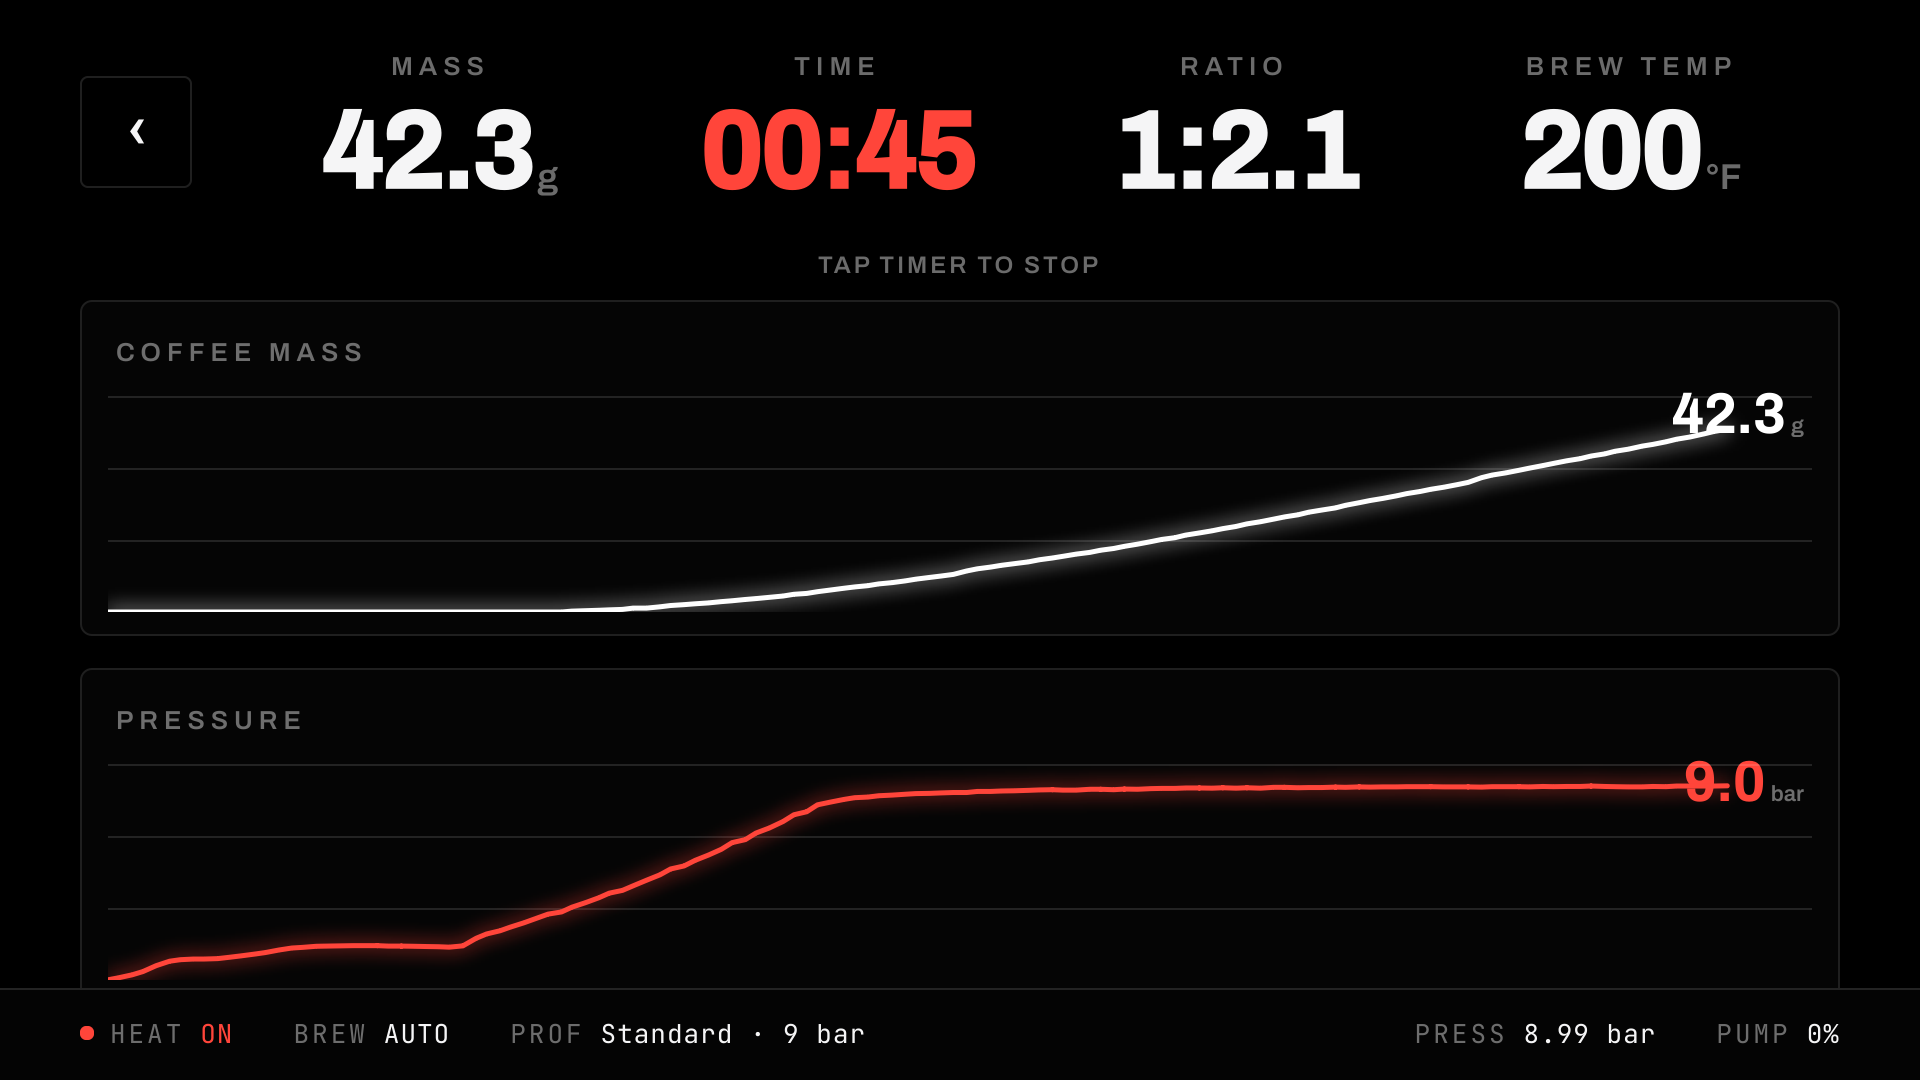
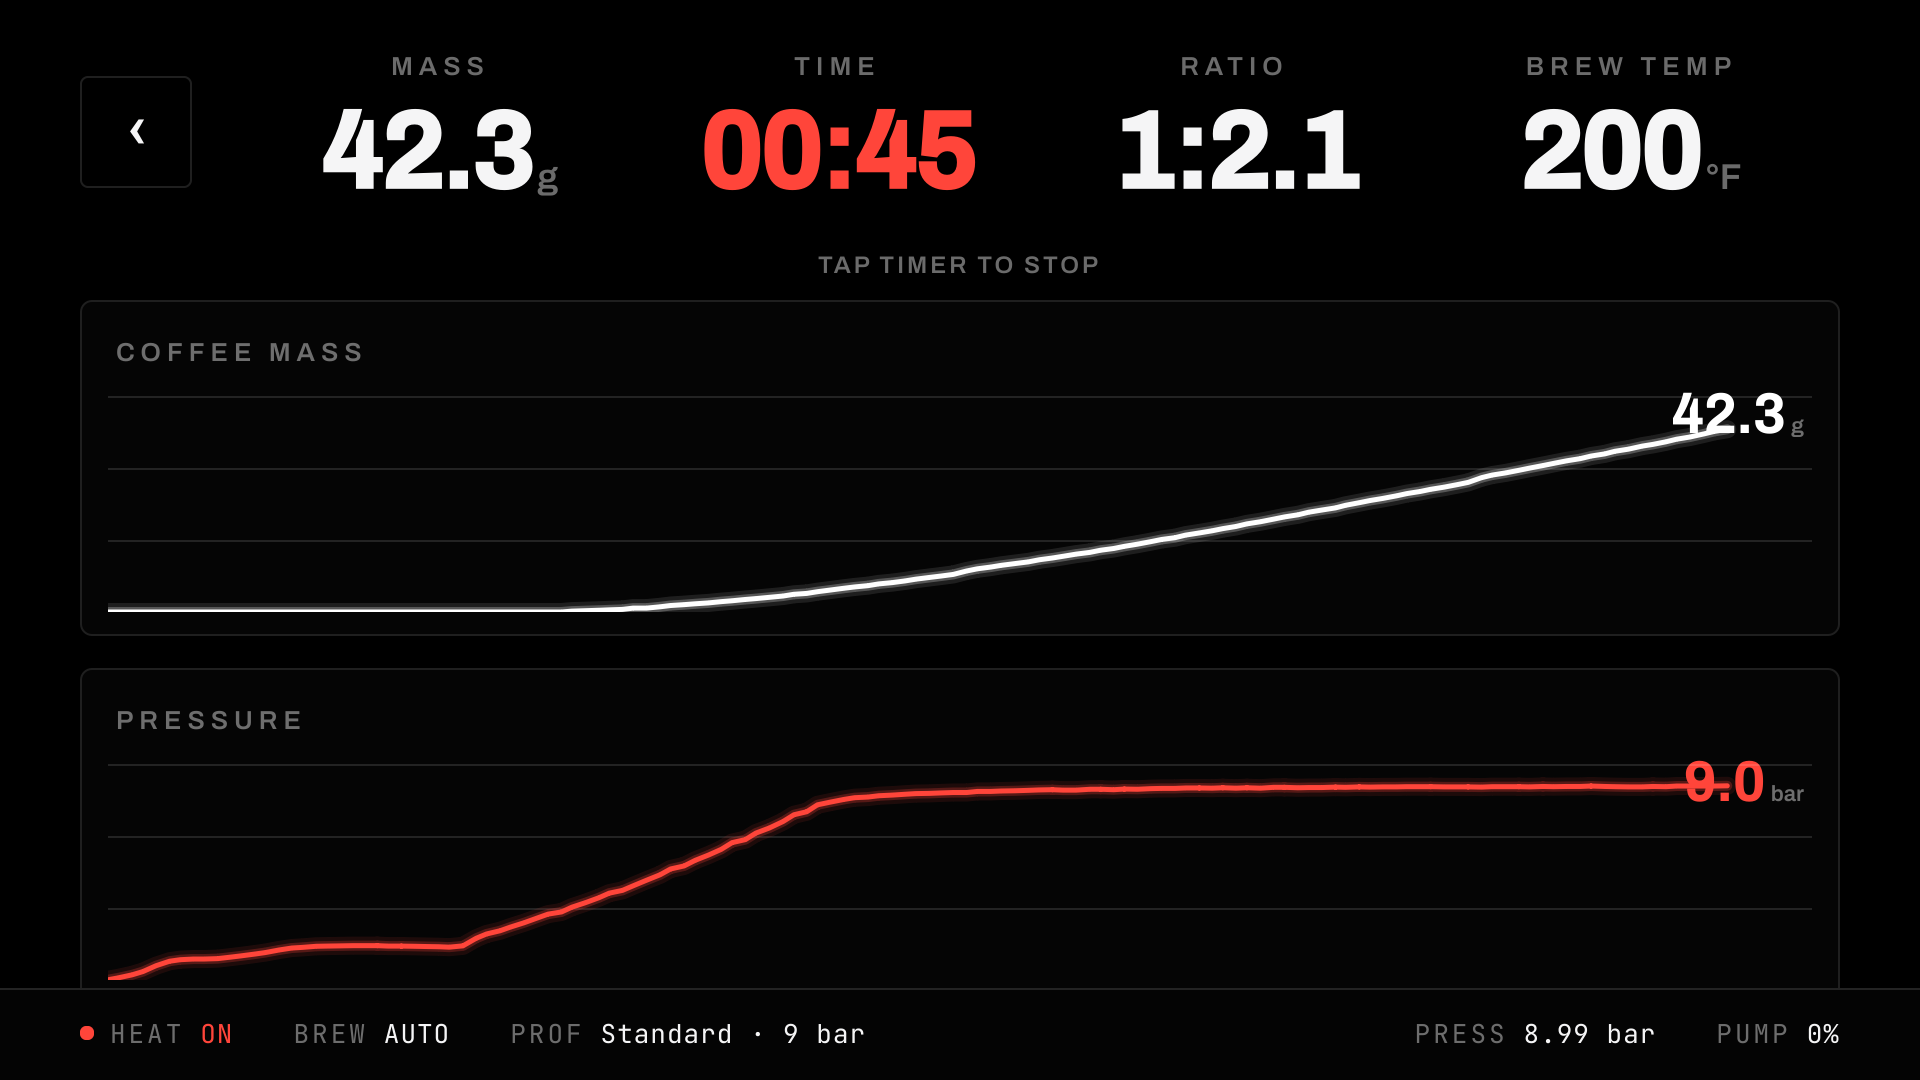
Fix brew-time UI jank: ChartCard glow via layered strokes, threaded raster
User pinned it: scale readout lag ONLY happened during a brew — which is
exactly when the live charts repaint. ctx.shadowBlur is a per-draw Gaussian
blur; 2 charts x growing polyline x 4 Hz was expensive enough on the Pi to
jank the GUI thread and coalesce the MASS numeral to ~1 Hz. Replaced with
3-pass layered strokes (visually equivalent bloom, render confirmed) and
renderStrategy: Canvas.Threaded so rasterization stays off the GUI thread.

Data chain separately verified good: press event tracked packet-by-packet
at 10 Hz in telemetry (77g -> 427g -> 74g over ~700 ms, fresh value each
100 ms packet).

Claude-Session: https://claude.ai/code/session_01WCiHknjkgDV1CNo2LPRxSg

diff --git a/ui/source/precision/ChartCard.qml b/ui/source/precision/ChartCard.qml
@@ -48,6 +48,23 @@ Rectangle {
         anchors.left: parent.left; anchors.right: parent.right; anchors.bottom: parent.bottom
         anchors.leftMargin: 14; anchors.rightMargin: 14; anchors.bottomMargin: 12
 
+        // Rasterize off the GUI thread so live-brew repaints can't jank the
+        // rest of the UI (the MASS numeral etc.).
+        renderStrategy: Canvas.Threaded
+
+        // Trace the polyline path once; stroked in multiple passes below.
+        function tracePath(ctx) {
+            var s = root.series
+            ctx.beginPath()
+            var started = false
+            for (var i = 0; i < s.length; i++) {
+                if (s[i].t > root.clipT) break
+                var x = (s[i].t / root.maxT) * width
+                var y = height - (s[i].v / root.maxV) * height
+                if (!started) { ctx.moveTo(x, y); started = true } else ctx.lineTo(x, y)
+            }
+        }
+
         onPaint: {
             var ctx = getContext("2d")
             ctx.reset()
@@ -63,23 +80,24 @@ Rectangle {
 
             var s = root.series
             if (!s || s.length < 2) return
-            ctx.save()
-            ctx.shadowColor = root.traceColor
-            ctx.shadowBlur = 8
-            ctx.strokeStyle = root.traceColor
-            ctx.lineWidth = 2.5
+
+            // Glow via layered strokes, NOT ctx.shadowBlur. shadowBlur is a
+            // per-draw Gaussian blur — on the Pi it cost enough per repaint
+            // (2 charts × growing polyline, every 250 ms during a brew) to
+            // jank the GUI thread and drag the live readouts to ~1 Hz.
+            // Three cheap passes read the same on the OLED.
             ctx.lineJoin = "round"
             ctx.lineCap = "round"
-            ctx.beginPath()
-            var started = false
-            for (var i = 0; i < s.length; i++) {
-                if (s[i].t > root.clipT) break
-                var x = (s[i].t / root.maxT) * width
-                var y = height - (s[i].v / root.maxV) * height
-                if (!started) { ctx.moveTo(x, y); started = true } else ctx.lineTo(x, y)
-            }
-            ctx.stroke()
-            ctx.restore()
+            var c = root.traceColor
+            ctx.strokeStyle = Qt.rgba(c.r, c.g, c.b, 0.10)
+            ctx.lineWidth = 9
+            tracePath(ctx); ctx.stroke()
+            ctx.strokeStyle = Qt.rgba(c.r, c.g, c.b, 0.25)
+            ctx.lineWidth = 5
+            tracePath(ctx); ctx.stroke()
+            ctx.strokeStyle = c
+            ctx.lineWidth = 2.5
+            tracePath(ctx); ctx.stroke()
         }
     }
 }
